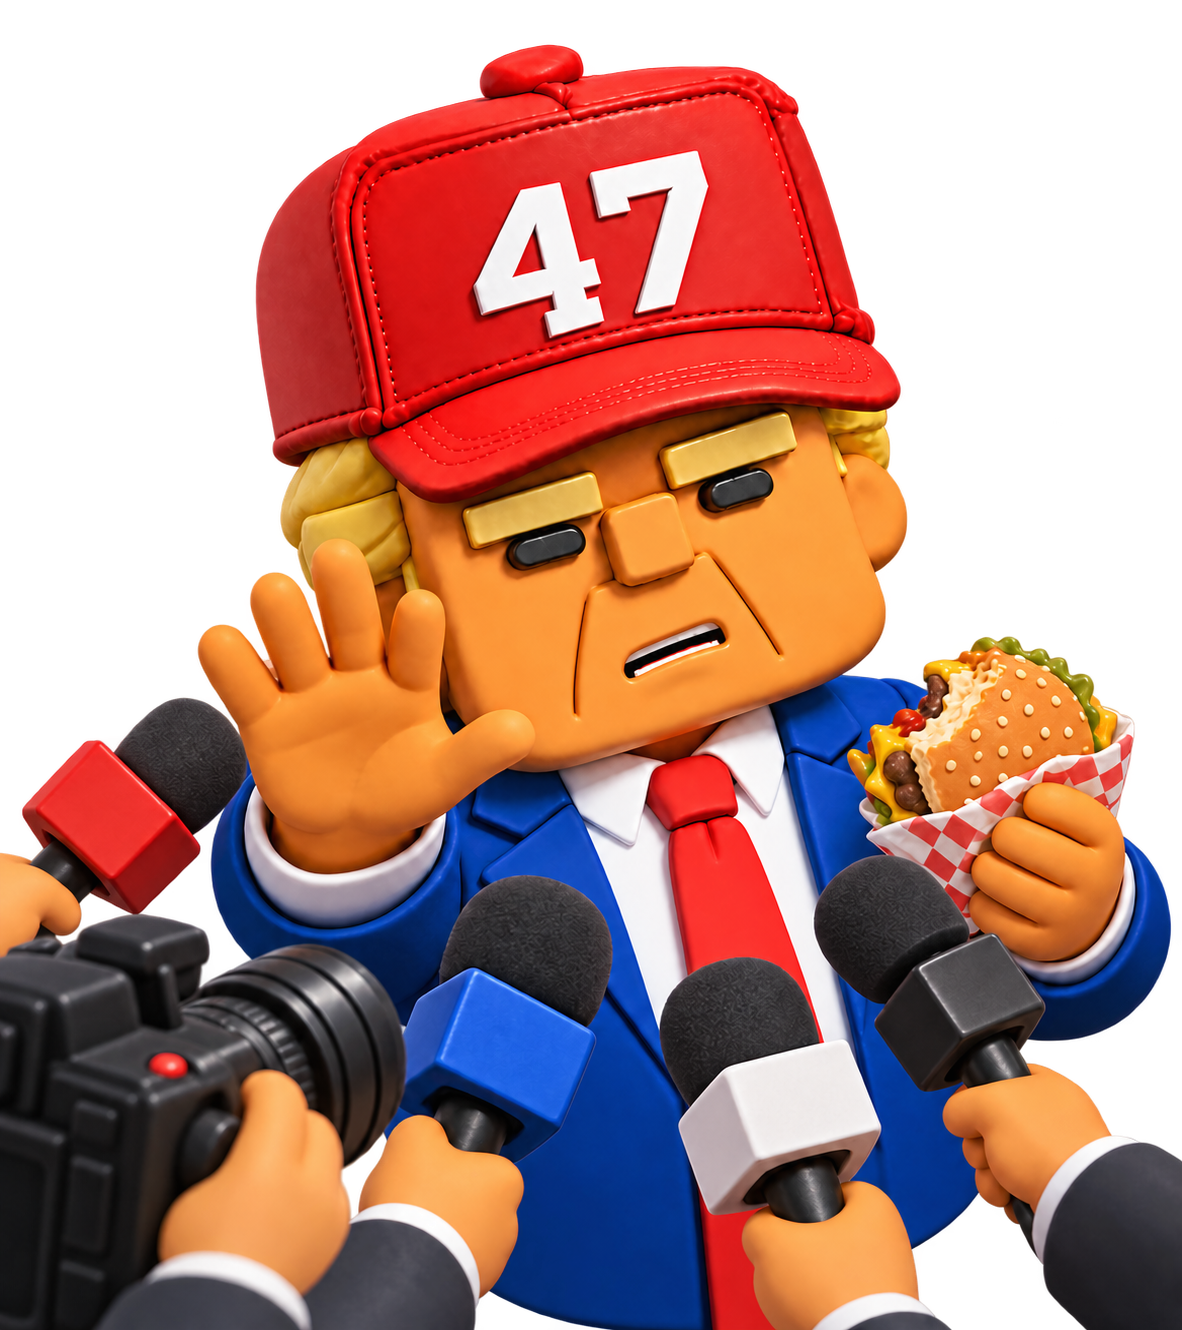
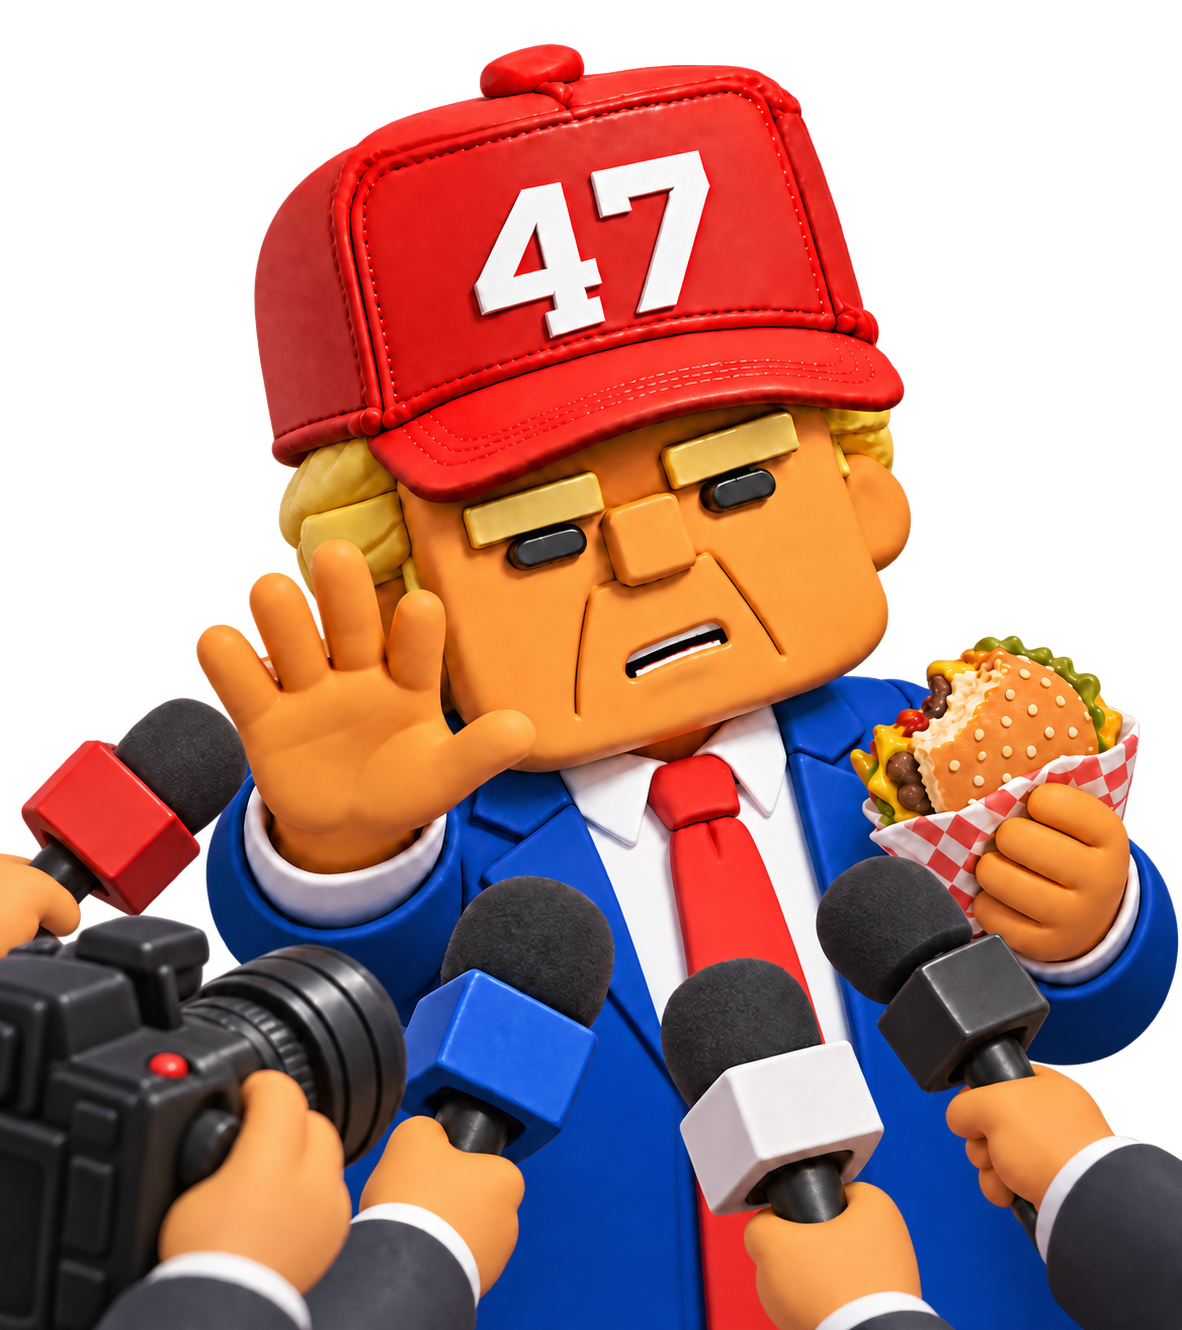
Ground Weekly portrait at bottom of opening screen

diff --git a/app/page.js b/app/page.js
@@ -363,7 +363,7 @@ function IntroScreen({ onStart, puzzle, editionMeta }) {
     weight: index === 0 ? 900 : 700,
     color: index === 0 ? C.gold : C.text,
   }));
-  const bgStyle = { backgroundColor:editionMeta.bgColor || C.bg, backgroundImage:"url("+bgImageUrl+")", backgroundSize:"cover", backgroundPosition:"center bottom" };
+  const bgStyle = { backgroundColor:editionMeta.bgColor || C.bg, backgroundImage:"url("+bgImageUrl+")", backgroundSize:editionMeta.key === "weekly" ? "100% auto" : "cover", backgroundRepeat:"no-repeat", backgroundPosition:"center bottom" };
 
   const renderBadge = () => {
     if (!editionLabel) return null;
